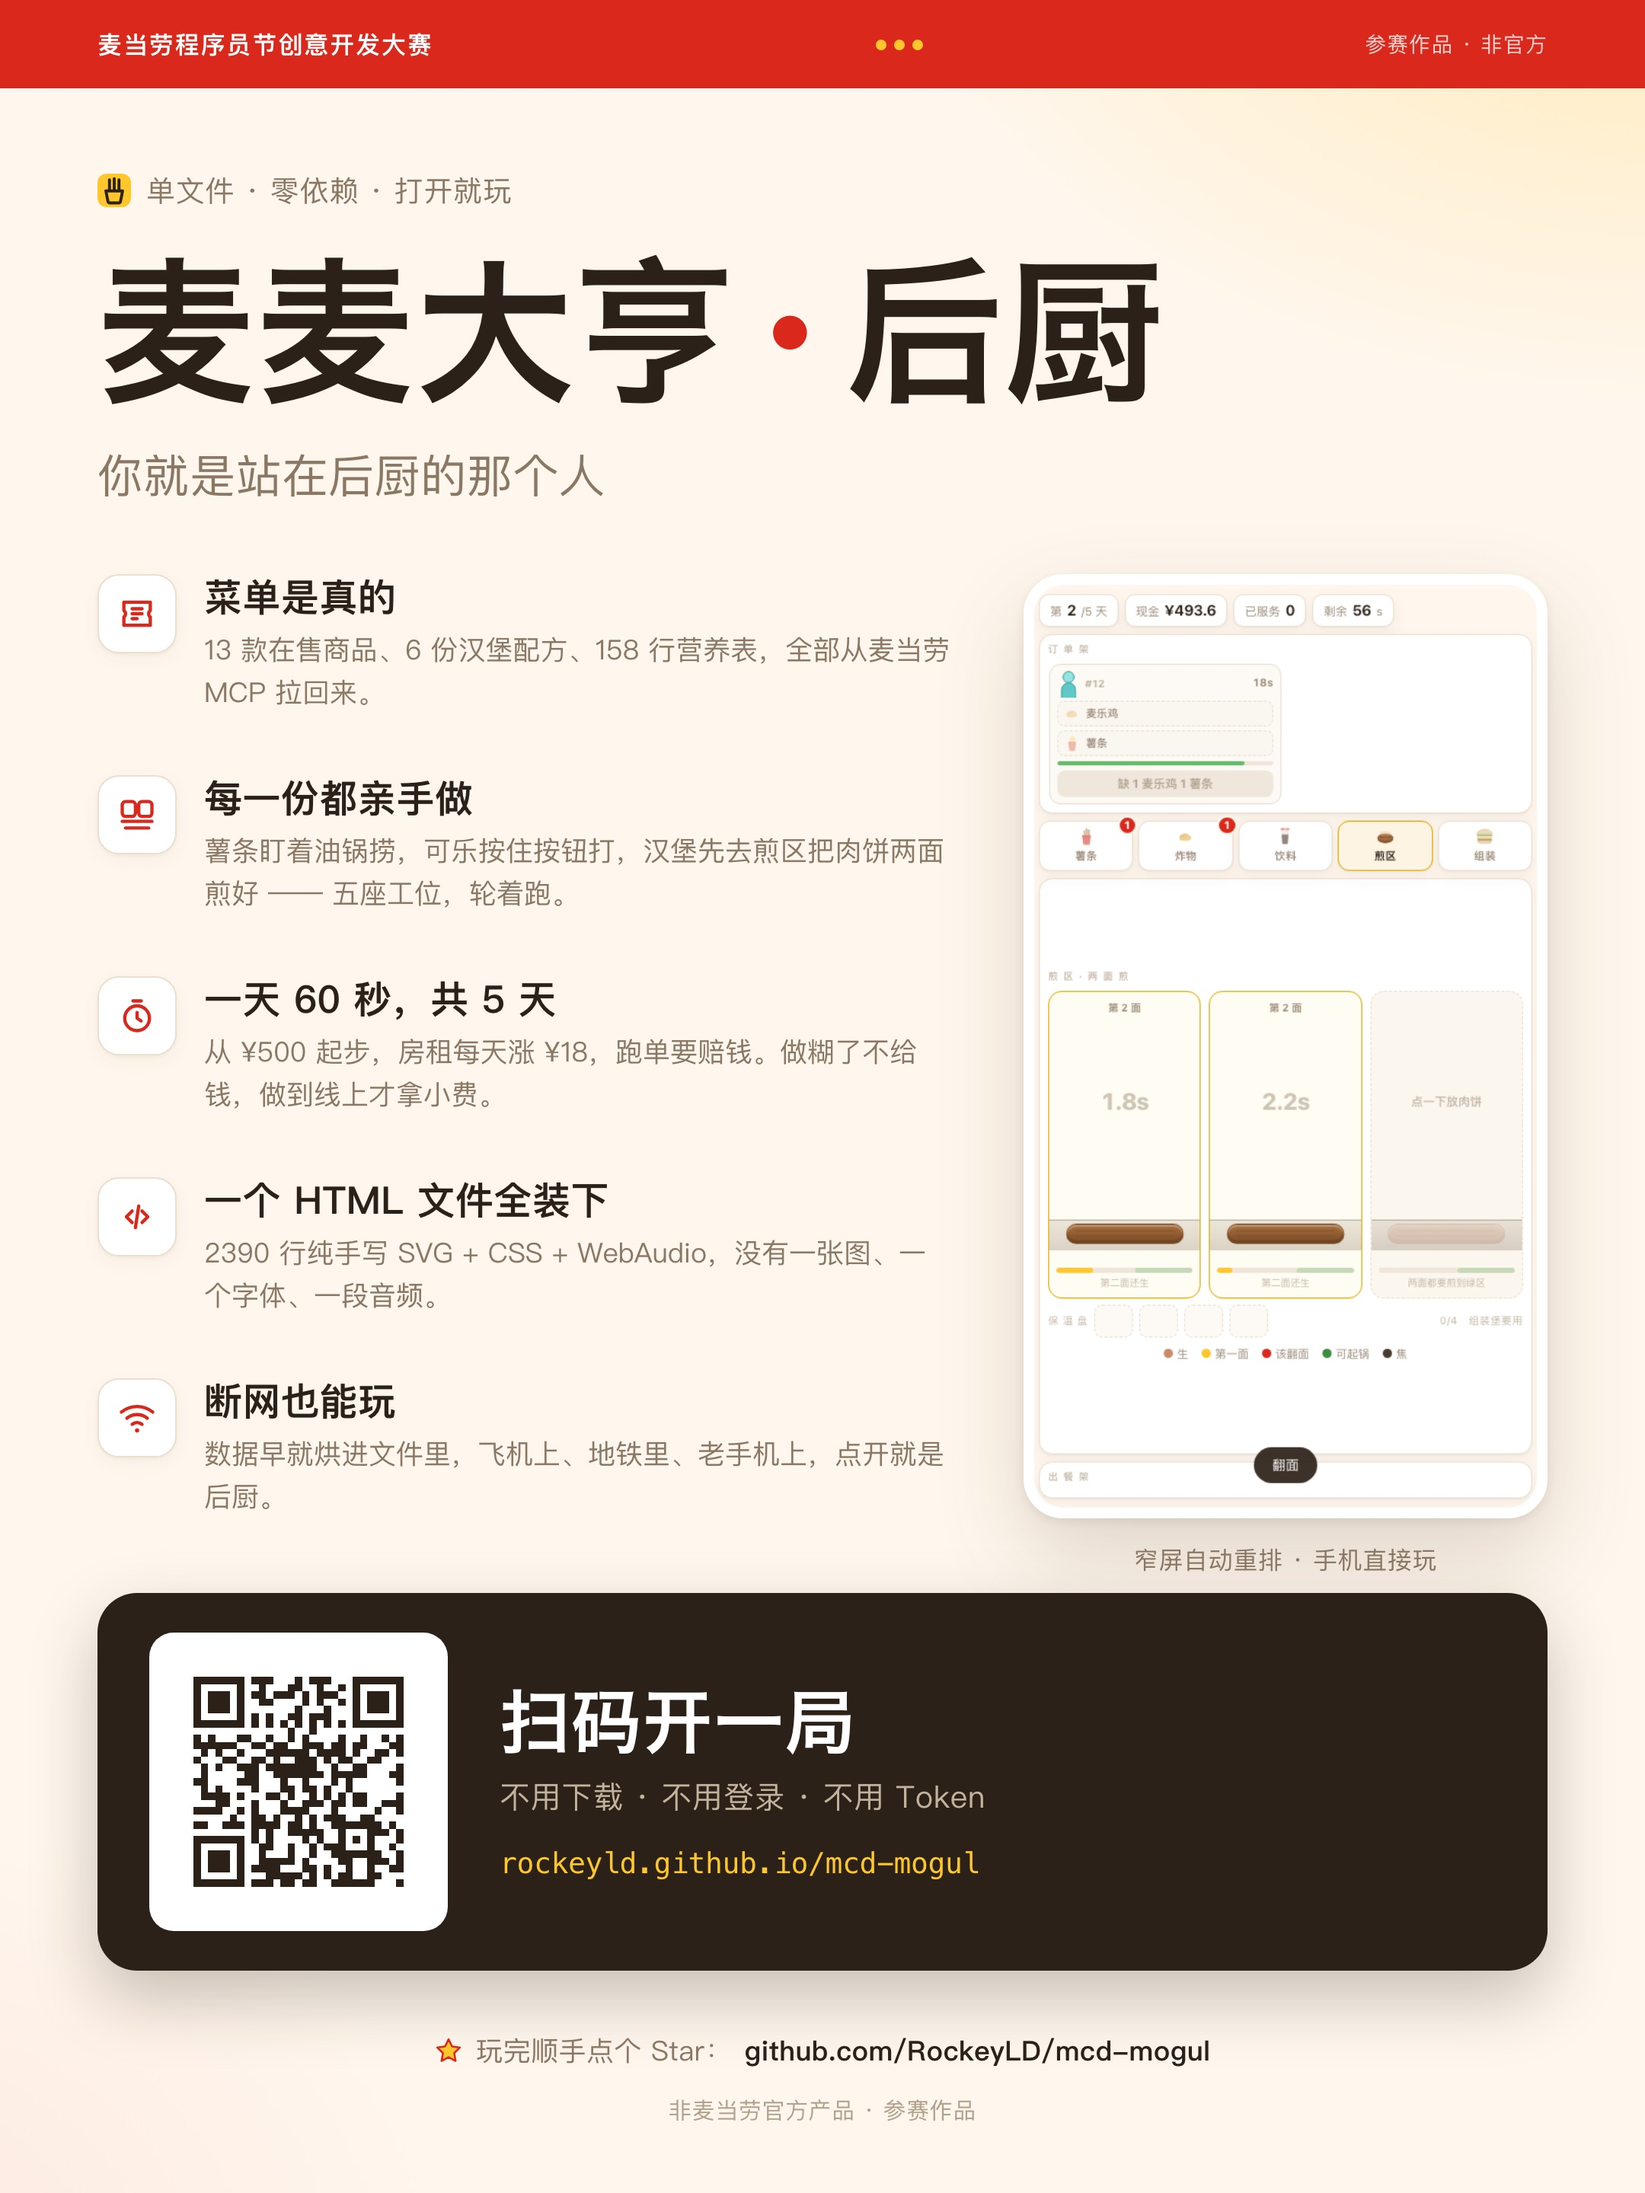
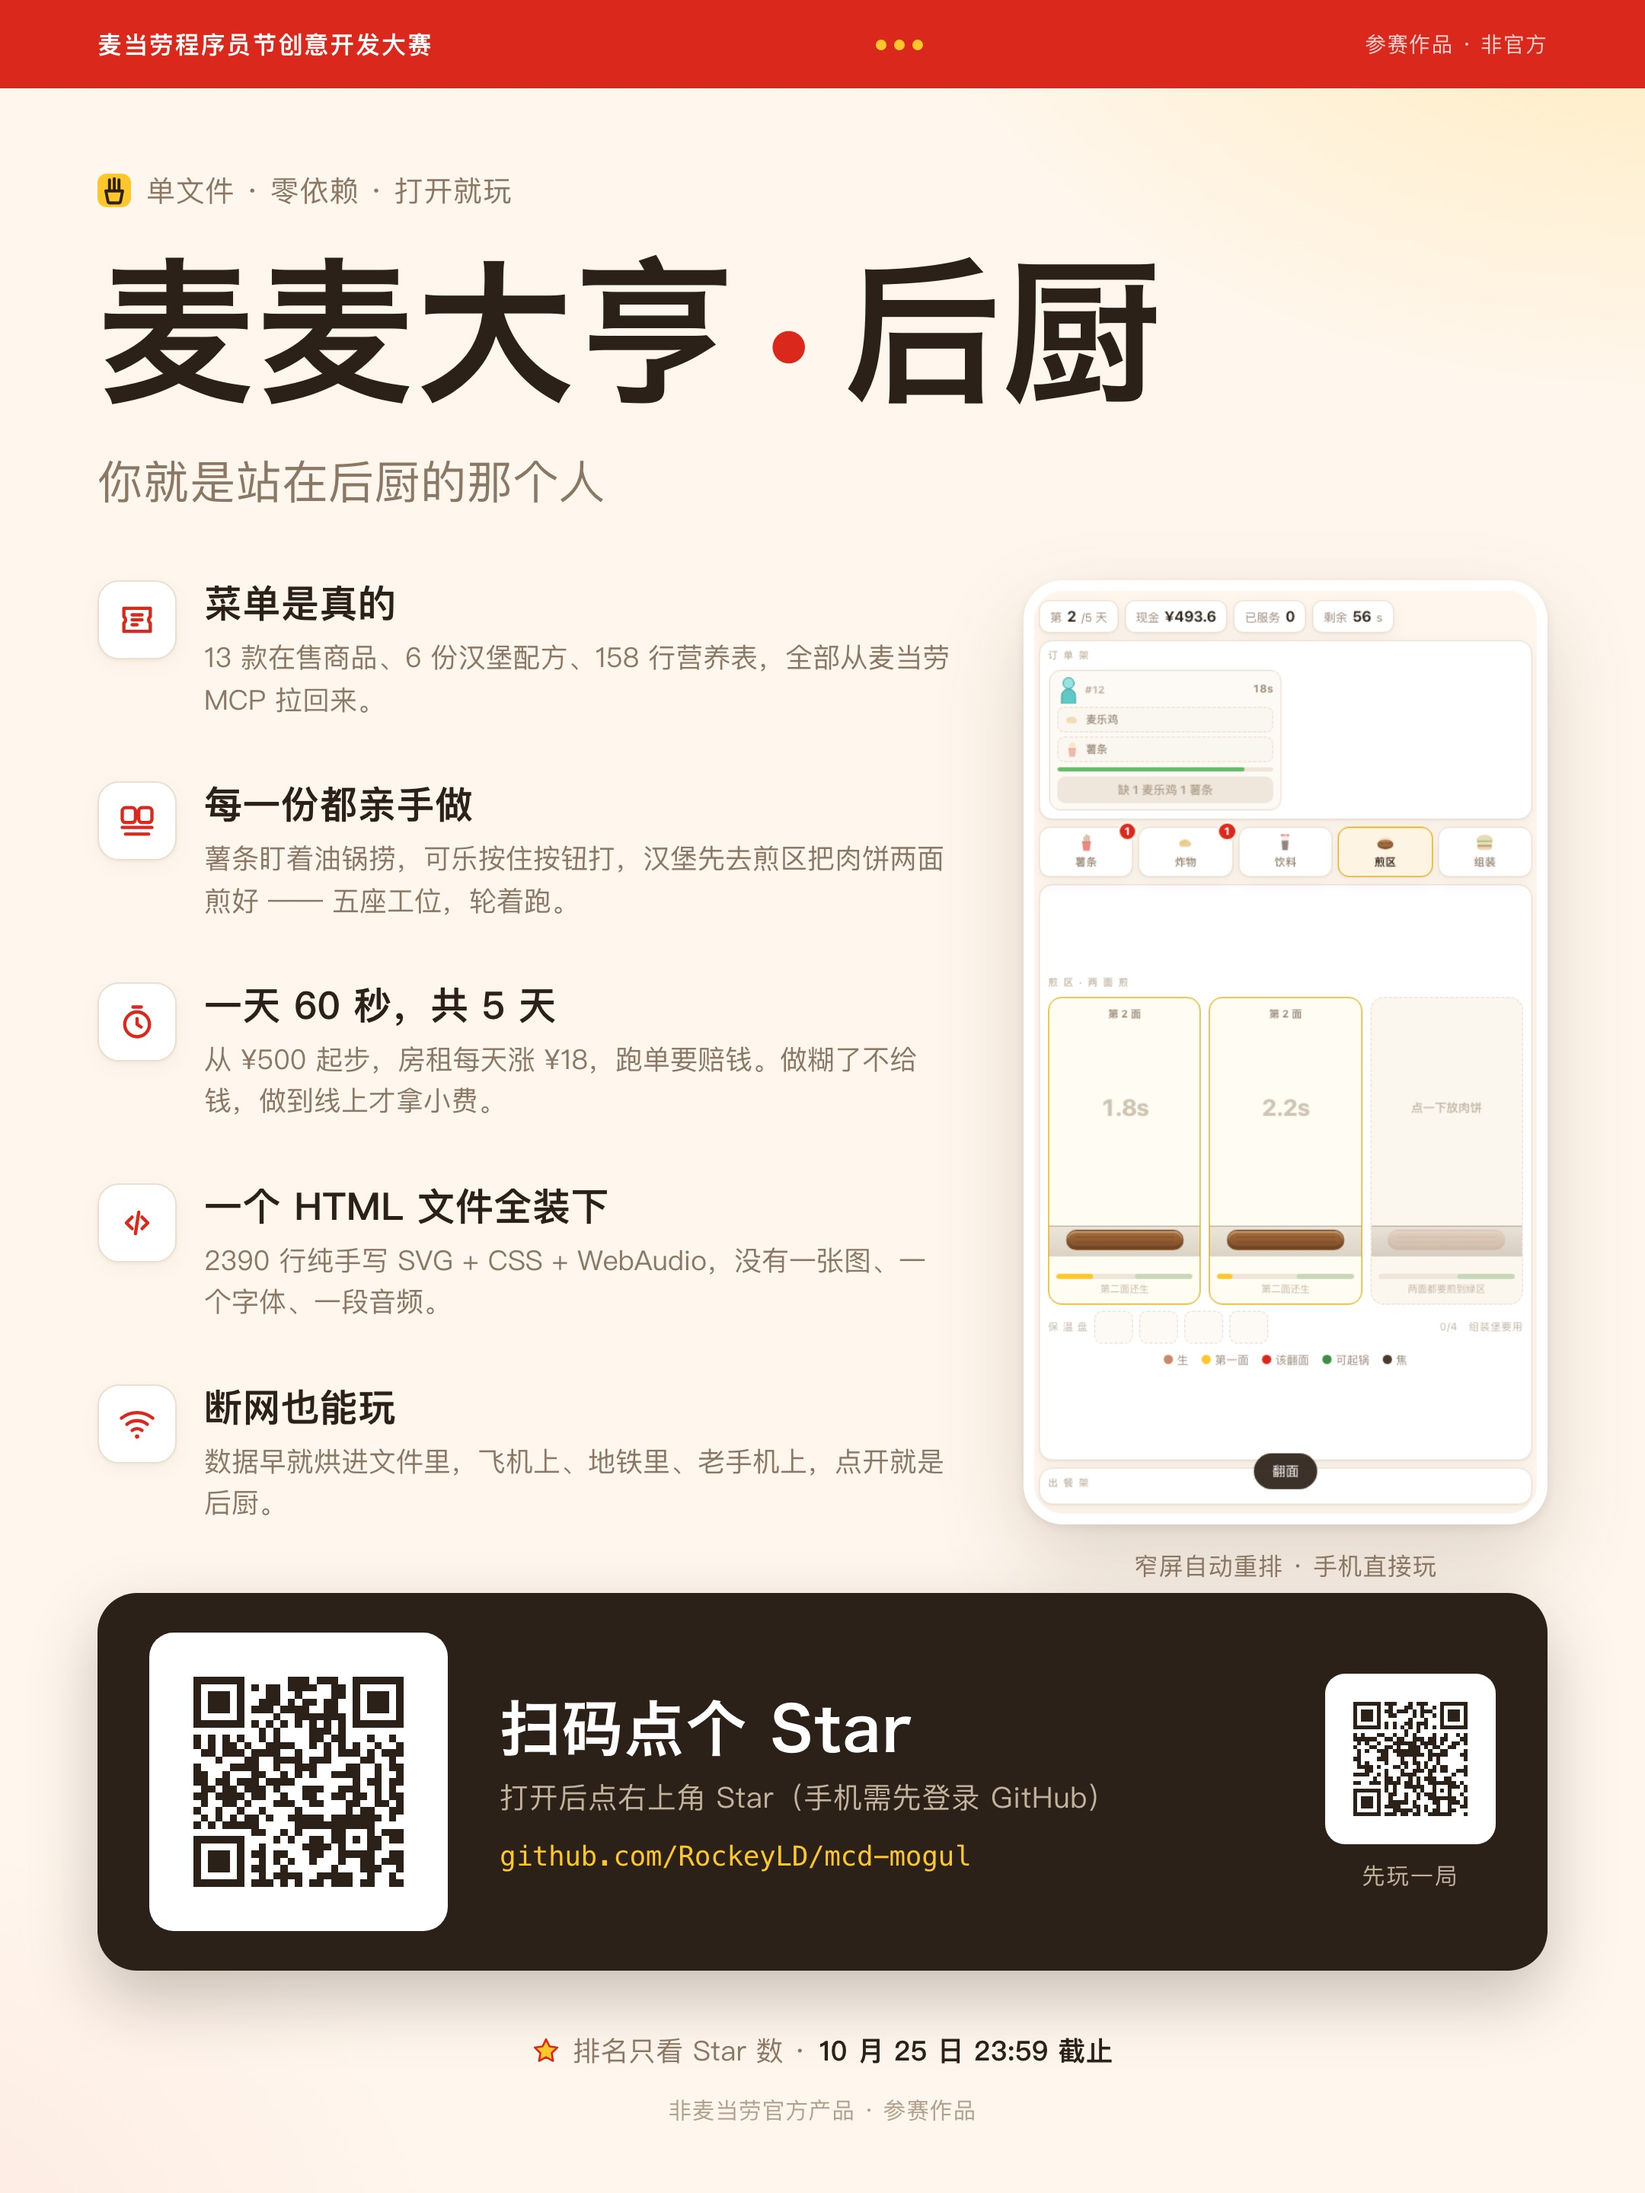
海报改对了：二维码指向点 Star 的地方，不是游戏页
上一版二维码只给试玩页，别人扫进来想支持却无从下手 ——
翻完 activityGuidelines.md 才确认，这个比赛根本没有"投票"按钮，
排名只看 GitHub 公开 Star 数，统计截止 10/26 00:00。

- 大码 → github.com/RockeyLD/mcd-mogul  「扫码点个 Star」
- 小码 → 线上试玩页                      「先玩一局」
- 页脚改成「排名只看 Star 数 · 10 月 25 日 23:59 截止」
- 文案提示手机点 Star 需先登录 GitHub

verify-poster.py 重写成按坐标区块逐个解码。原来用
detectAndDecodeMulti 在 cv2 5.0 上整图只吐一个码，剩下的靠猜。
现在两个码各自确定性命中，PNG 与 JPG 各验一遍，四种组合全过。

diff --git a/poster/poster.html b/poster/poster.html
@@ -53,7 +53,7 @@
     font-size:104px;line-height:1.04;font-weight:600;
     letter-spacing:.005em;margin:22px 0 0;
   }
-  h1 .mid{color:var(--red);margin:0 -.11em;font-size:.9em;vertical-align:.03em}
+  h1 .mid{color:var(--red);margin:0 -.1em;font-size:.86em;vertical-align:-.06em}
   .sub{font-size:30px;color:var(--dim);margin-top:20px;letter-spacing:.01em}
 
   /* ── 中部：左卖点 / 右手机 ── */
@@ -102,16 +102,21 @@
     border-radius:16px;padding:10px;display:flex;align-items:center;justify-content:center;
   }
   .qr-box img{width:100%;height:100%;display:block}
-  .qr-txt{color:#fff}
+  .qr-txt{color:#fff;flex:1 1 auto;min-width:0}
   .qr-txt h2{
     font-family:"Hiragino Sans GB","PingFang SC",sans-serif;
-    font-size:46px;font-weight:600;letter-spacing:.02em;line-height:1.1;
+    font-size:40px;font-weight:600;letter-spacing:.02em;line-height:1.15;
   }
-  .qr-txt .hint{font-size:20px;color:#C3B39C;margin-top:10px;letter-spacing:.02em}
+  .qr-txt .hint{font-size:19px;color:#C3B39C;margin-top:9px;letter-spacing:.02em}
   .qr-txt .url{
     font-family:"SF Mono",Menlo,Consolas,monospace;
-    font-size:19px;color:var(--yellow);margin-top:18px;letter-spacing:-.01em;
+    font-size:18px;color:var(--yellow);margin-top:15px;letter-spacing:-.01em;
   }
+
+  /* 右侧小码：想先玩的人也有出口 */
+  .qr-play{flex:0 0 auto;text-align:center}
+  .qr-play .qr-box{width:112px;height:112px;flex:0 0 112px;padding:8px;border-radius:13px}
+  .play-cap{font-size:15px;color:#C3B39C;margin-top:10px;letter-spacing:.06em}
 
   /* ── 页脚 ── */
   .foot{
@@ -238,11 +243,15 @@
   </div>
 
   <div class="qr-card">
-    <div class="qr-box"><img src="qr.svg" alt="扫码试玩"></div>
+    <div class="qr-box"><img src="qr-repo.svg" alt="扫码去 GitHub 点 Star"></div>
     <div class="qr-txt">
-      <h2>扫码开一局</h2>
-      <div class="hint">不用下载 · 不用登录 · 不用 Token</div>
-      <div class="url">rockeyld.github.io/mcd-mogul</div>
+      <h2>扫码点个 Star</h2>
+      <div class="hint">打开后点右上角 Star（手机需先登录 GitHub）</div>
+      <div class="url">github.com/RockeyLD/mcd-mogul</div>
+    </div>
+    <div class="qr-play">
+      <div class="qr-box"><img src="qr-game.svg" alt="扫码试玩"></div>
+      <div class="play-cap">先玩一局</div>
     </div>
   </div>
 
@@ -252,7 +261,7 @@
            stroke-linejoin="round">
         <path d="M12 2.6l2.9 5.9 6.5.95-4.7 4.6 1.1 6.5-5.8-3.05-5.8 3.05 1.1-6.5-4.7-4.6 6.5-.95z"/>
       </svg>
-      玩完顺手点个 Star：<u>github.com/RockeyLD/mcd-mogul</u>
+      排名只看 Star 数 · <u>10 月 25 日 23:59 截止</u>
     </div>
     <div class="copyright">非麦当劳官方产品 · 参赛作品</div>
   </div>

diff --git a/tools/verify-poster.py b/tools/verify-poster.py
@@ -1,22 +1,35 @@
 #!/usr/bin/env python3
-"""真扫一遍海报上的二维码 —— 不是"应该能扫"，是真的解码出来比对。
+"""真扫一遍海报上的两个二维码 —— 不是"应该能扫"，是真的解码出来比对。
 
 用法:
     python tools/verify-poster.py poster/poster.png
     python tools/verify-poster.py poster/poster.jpg
 
-做三件事：
-  1. 校验图像尺寸与 3:4 比例
-  2. 用 OpenCV 在整图里找二维码并解码
-  3. 解码结果必须等于线上试玩地址，否则退出码 1
+海报上两个码用途不同，两个都得能扫：
+    大码 → https://github.com/RockeyLD/mcd-mogul   去点 Star（决定排名）
+    小码 → https://rockeyld.github.io/mcd-mogul/   先玩一局
+
+做法：按已知坐标把两块各自裁出来单独解码。
+不用 detectAndDecodeMulti —— cv2 5.0 上它在整图里只吐一个码，
+剩下的靠猜，比逐个裁要不可靠得多。
 """
 import sys
 from pathlib import Path
 
 import cv2
 
-EXPECT = "https://rockeyld.github.io/mcd-mogul/"
 W, H = 2160, 2880   # 2 倍导出
+
+# 标签 -> (期望地址, 裁切框 x1,y1,x2,y2)
+# 坐标按 2160×2880 实际渲染结果量的，码边缘留了 ~20px 余量
+REGIONS = {
+    "大码 · 点 Star": ("https://github.com/RockeyLD/mcd-mogul", (200, 2140, 580, 2540)),
+    "小码 · 试玩": ("https://rockeyld.github.io/mcd-mogul/", (1748, 2204, 1968, 2424)),
+}
+
+
+def norm(u: str) -> str:
+    return u.strip().rstrip("/")
 
 
 def main() -> None:
@@ -31,34 +44,35 @@ def main() -> None:
     print(f"图像 {w}×{h}  ({src.stat().st_size / 1024:.0f} KB)")
 
     if (w, h) != (W, H):
-        print(f"⚠ 尺寸与预期 {W}×{H} 不同（缩放版本？继续扫）")
+        print(f"✗ 尺寸 {w}×{h} 不是 {W}×{H}，坐标会全部错位")
+        sys.exit(1)
     if abs(w / h - 3 / 4) > 0.005:
         print(f"✗ 比例不是 3:4，朋友圈会被裁：{w / h:.4f}")
         sys.exit(1)
 
     det = cv2.QRCodeDetector()
+    bad = 0
 
-    # 先整图扫
-    ok, pts = det.detect(img)
-    data, _, _ = det.detectAndDecode(img)
+    for label, (want, (x1, y1, x2, y2)) in REGIONS.items():
+        crop = img[y1:y2, x1:x2]
+        if crop.size == 0:
+            print(f"  ✗ {label}: 裁切框超出图像")
+            bad += 1
+            continue
+        got, _, _ = det.detectAndDecode(crop)
+        if not got:
+            print(f"  ✗ {label}: 扫不出来（框内 {crop.shape[1]}×{crop.shape[0]}）")
+            bad += 1
+        elif norm(got) != norm(want):
+            print(f"  ✗ {label}: 扫出 {got}，但不是 {want}")
+            bad += 1
+        else:
+            print(f"  ✓ {label}: {got}")
 
-    if not data:
-        # 整图扫不到就把左侧二维码区裁出来再试（海报里它只占 ~9%）
-        crop = img[int(1020 * 2):int(1290 * 2), int(60 * 2):int(360 * 2)]
-        cv2.imwrite("/tmp/mcd-qr-crop.png", crop)
-        data, _, _ = det.detectAndDecode(crop)
-        print("整图没解出，已裁二维码区域重试")
-
-    if not data:
-        print("✗ 扫不出来 —— 二维码太小 / 对比度不够 / 被压缩糊了")
+    if bad:
+        print(f"✗ {bad} 个二维码没通过")
         sys.exit(1)
-
-    print(f"扫码结果: {data}")
-    if data.rstrip("/") != EXPECT.rstrip("/"):
-        print(f"✗ 内容不对，期望 {EXPECT}")
-        sys.exit(1)
-
-    print("✓ 二维码可扫，指向正确")
+    print("✓ 两个码都能扫，指向正确")
 
 
 if __name__ == "__main__":
